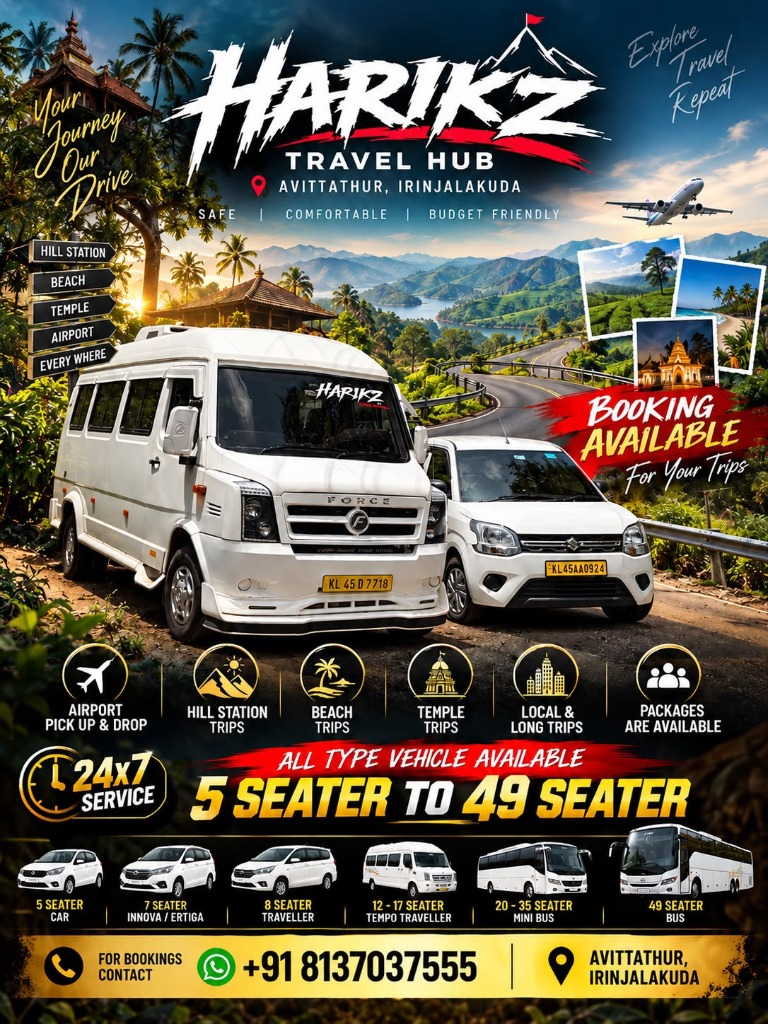
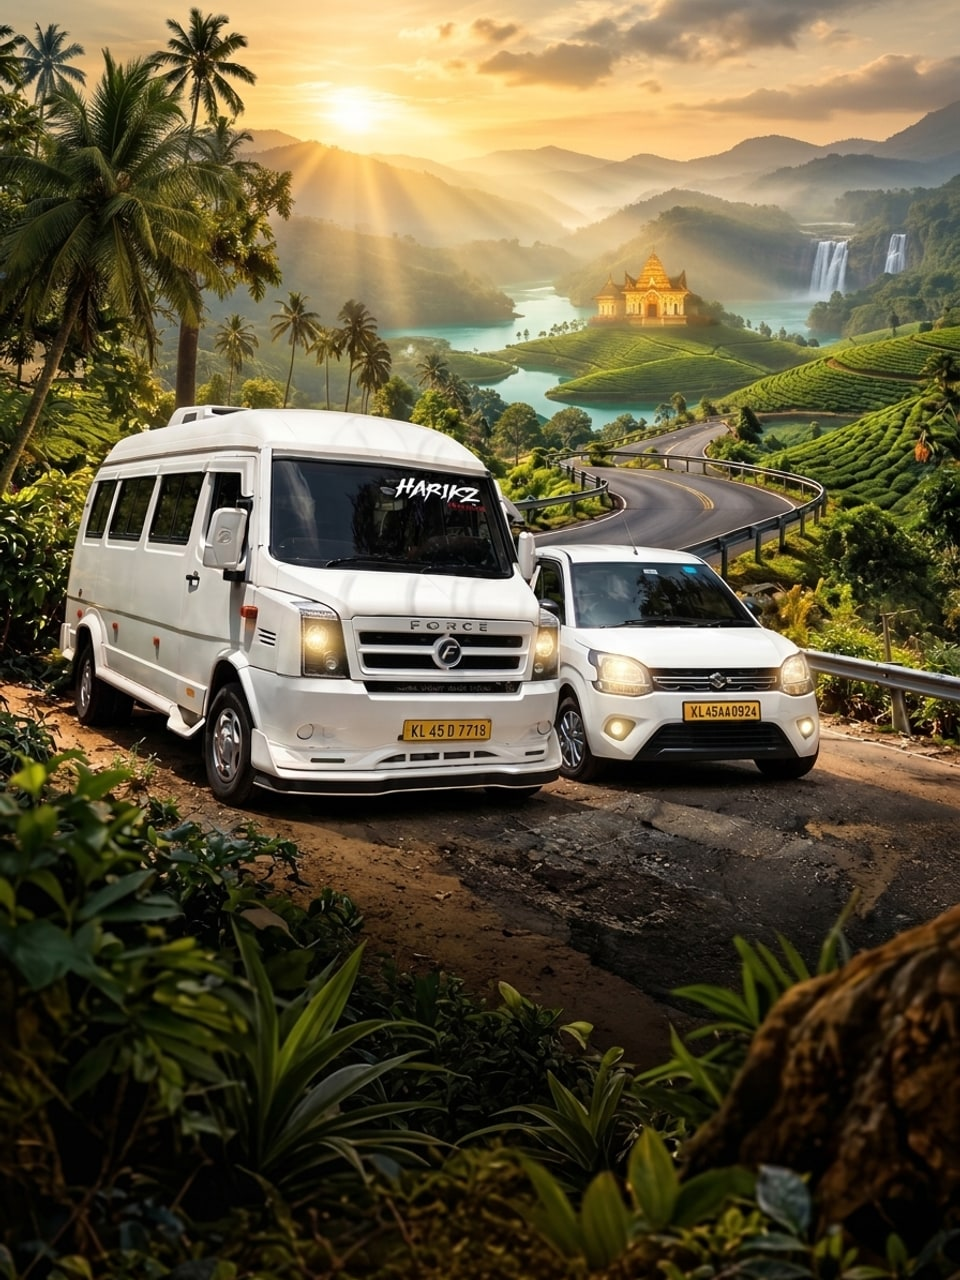
Upgrade all 6 travel album photos to cinematic AI-world scenes

diff --git a/album/index.html b/album/index.html
@@ -114,7 +114,7 @@
             <span class="tape t-left"></span>
             <span class="tape t-right"></span>
             <div class="tc-frame">
-              <img src="photos/harikz-travel-hub-poster.jpg" alt="HARIKZ Travel Hub Avittathur Irinjalakuda — 5 seater to 49 seater 24x7 booking poster" loading="eager">
+              <img src="photos/harikz-travel-hub-poster.jpg?v=ai2" alt="HARIKZ Force Traveller KL 45 D 7718 and WagonR KL 45 AA 0924 overlooking a golden Kerala mountain valley" loading="eager">
               <span class="tc-sheen" aria-hidden="true"></span>
               <span class="tc-zoom-hint">Click to explore ⤢</span>
             </div>
@@ -153,7 +153,7 @@
           <figure class="travel-card" data-tilt style="--rot:2.1deg">
             <span class="tape t-center"></span>
             <div class="tc-frame">
-              <img src="photos/forest-road-traveller.jpg" alt="White Force Tempo Traveller KL 52 G 5468 parked along a lush forest road" loading="lazy">
+              <img src="photos/forest-road-traveller.jpg?v=ai2" alt="White Force Tempo Traveller KL 52 G 5468 parked along a sunlit emerald rainforest road" loading="lazy">
               <span class="tc-sheen" aria-hidden="true"></span>
               <span class="tc-zoom-hint">Click to explore ⤢</span>
             </div>
@@ -193,7 +193,7 @@
             <span class="tape t-left"></span>
             <span class="tape t-right"></span>
             <div class="tc-frame">
-              <img src="photos/misty-hill-drive.jpg" alt="White Tata Winger KL 45 Z 9292 driving along a misty fog-covered hill station road" loading="lazy">
+              <img src="photos/misty-hill-drive.jpg?v=ai2" alt="White Tata Winger KL 45 Z 9292 driving above misty dawn mountain clouds and tea slopes" loading="lazy">
               <span class="tc-sheen" aria-hidden="true"></span>
               <span class="tc-zoom-hint">Click to explore ⤢</span>
             </div>
@@ -232,7 +232,7 @@
           <figure class="travel-card" data-tilt style="--rot:2.5deg">
             <span class="tape t-center"></span>
             <div class="tc-frame">
-              <img src="photos/mountain-highway-stop.jpg" alt="HARIKZ Tata Winger KL 45 Z 9292 paused at a sunny mountain-view highway stop" loading="lazy">
+              <img src="photos/mountain-highway-stop.jpg?v=ai2" alt="HARIKZ Tata Winger KL 45 Z 9292 paused at a sunlit mountain-view cafe terrace along a sweeping alpine highway" loading="lazy">
               <span class="tc-sheen" aria-hidden="true"></span>
               <span class="tc-zoom-hint">Click to explore ⤢</span>
             </div>
@@ -272,7 +272,7 @@
             <span class="tape t-left"></span>
             <span class="tape t-right"></span>
             <div class="tc-frame">
-              <img src="photos/monsoon-pitstop-force.jpg" alt="HARIKZ Force Traveller KL 45 D 7718 refueling in the Kerala monsoon rain" loading="lazy">
+              <img src="photos/monsoon-pitstop-force.jpg?v=ai2" alt="HARIKZ Force Traveller KL 45 D 7718 glowing under twilight monsoon rain at a highway fuel oasis" loading="lazy">
               <span class="tc-sheen" aria-hidden="true"></span>
               <span class="tc-zoom-hint">Click to explore ⤢</span>
             </div>
@@ -311,7 +311,7 @@
           <figure class="travel-card" data-tilt style="--rot:1.8deg">
             <span class="tape t-center"></span>
             <div class="tc-frame">
-              <img src="photos/fleet-duo-ready.jpg" alt="HARIKZ Force Traveller KL 45 D 7718 and white Suzuki WagonR KL 45 AA 0924 parked side by side" loading="lazy">
+              <img src="photos/fleet-duo-ready.jpg?v=ai2" alt="HARIKZ Force Traveller KL 45 D 7718 and Suzuki WagonR KL 45 AA 0924 along a golden-hour Kerala backwater palm avenue" loading="lazy">
               <span class="tc-sheen" aria-hidden="true"></span>
               <span class="tc-zoom-hint">Click to explore ⤢</span>
             </div>

diff --git a/album/album.js b/album/album.js
@@ -4,7 +4,7 @@ const $$ = s => Array.from(document.querySelectorAll(s));
 /* ---------- Album photo metadata for fullscreen road-trip viewer ---------- */
 const PHOTOS = [
   {
-    src: 'photos/harikz-travel-hub-poster.jpg',
+    src: 'photos/harikz-travel-hub-poster.jpg?v=ai2',
     title: 'Harikz Travel Hub',
     caption: 'Explore · Travel · Repeat — Avittathur, Irinjalakuda',
     stamp: 'IRINJALAKUDA',
@@ -12,7 +12,7 @@ const PHOTOS = [
     wa: 'Hello HARIKZ, I saw your Travel Album and want to book a trip!'
   },
   {
-    src: 'photos/forest-road-traveller.jpg',
+    src: 'photos/forest-road-traveller.jpg?v=ai2',
     title: 'Into the Green Trails',
     caption: 'Under the green forest canopy',
     stamp: 'FOREST TRAIL',
@@ -20,7 +20,7 @@ const PHOTOS = [
     wa: 'Hello HARIKZ, I would like to book the Force Traveller (KL 52 G 5468) for a group trip!'
   },
   {
-    src: 'photos/misty-hill-drive.jpg',
+    src: 'photos/misty-hill-drive.jpg?v=ai2',
     title: 'Above the Morning Mist',
     caption: 'Chasing clouds up the ghats',
     stamp: 'MISTY HILLS',
@@ -28,7 +28,7 @@ const PHOTOS = [
     wa: 'Hello HARIKZ, I want to plan a misty hill station trip!'
   },
   {
-    src: 'photos/mountain-highway-stop.jpg',
+    src: 'photos/mountain-highway-stop.jpg?v=ai2',
     title: 'Pit Stop at the Summit',
     caption: 'Chai stop with a mountain view',
     stamp: 'HIGH RANGE',
@@ -36,7 +36,7 @@ const PHOTOS = [
     wa: 'Hello HARIKZ, I want to book KL 45 Z 9292 for a mountain trip!'
   },
   {
-    src: 'photos/monsoon-pitstop-force.jpg',
+    src: 'photos/monsoon-pitstop-force.jpg?v=ai2',
     title: 'Monsoon Miles Ahead',
     caption: 'Fuelled up & rain-ready',
     stamp: 'MONSOON RUN',
@@ -44,7 +44,7 @@ const PHOTOS = [
     wa: 'Hello HARIKZ, I would like to book Force Traveller KL 45 D 7718!'
   },
   {
-    src: 'photos/fleet-duo-ready.jpg',
+    src: 'photos/fleet-duo-ready.jpg?v=ai2',
     title: 'Your Fleet, Your Pace',
     caption: 'Big group or quick ride — ready 24×7',
     stamp: 'FLEET LINEUP',

diff --git a/album/deck.js b/album/deck.js
@@ -173,7 +173,7 @@
       card.innerHTML = `
         <span class="tdeck-tape" aria-hidden="true"></span>
         <div class="tdeck-img-wrap">
-          <img src="${basePath}${p.file}" alt="${p.title} ${p.em} — ${p.caption}" draggable="false" loading="${idx < 2 ? 'eager' : 'lazy'}">
+          <img src="${basePath}${p.file}?v=ai2" alt="${p.title} ${p.em} — ${p.caption}" draggable="false" loading="${idx < 2 ? 'eager' : 'lazy'}">
           <span class="tdeck-sheen" aria-hidden="true"></span>
           <span class="tdeck-swipe-stamp is-next" aria-hidden="true">NEXT STOP →</span>
           <span class="tdeck-swipe-stamp is-prev" aria-hidden="true">← PREV STOP</span>
@@ -195,7 +195,7 @@
       th.className = 'tdeck-thumb';
       th.setAttribute('role', 'tab');
       th.setAttribute('aria-label', `Photo ${idx + 1}: ${p.title} ${p.em}`);
-      th.innerHTML = `<img src="${basePath}${p.file}" alt="" loading="lazy"><span>0${idx + 1}</span>`;
+      th.innerHTML = `<img src="${basePath}${p.file}?v=ai2" alt="" loading="lazy"><span>0${idx + 1}</span>`;
       th.addEventListener('click', () => {
         dismissHint();
         goTo(idx);
